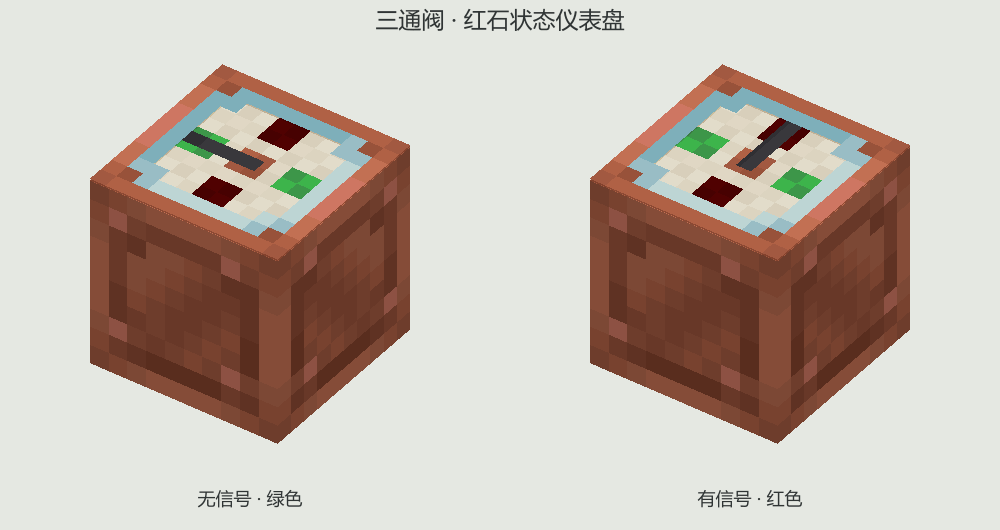
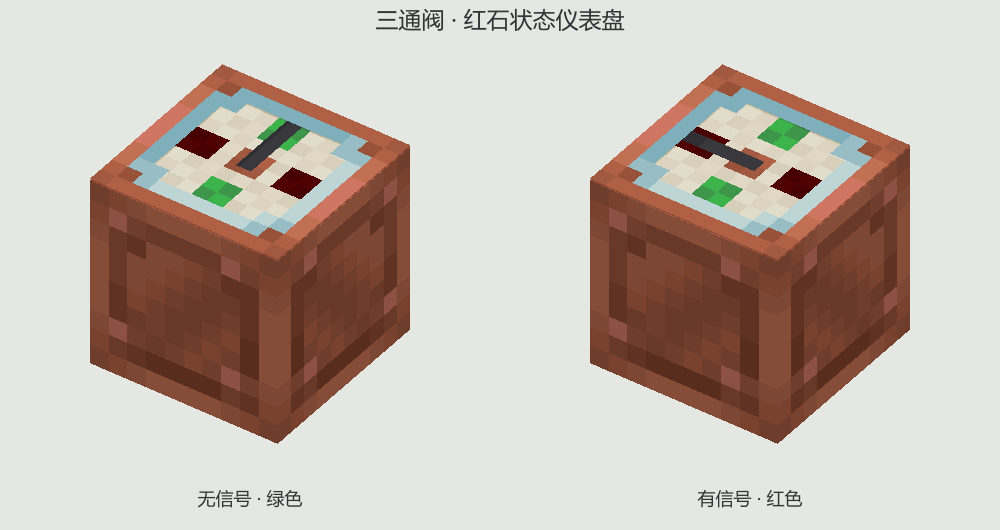
Rotate three-way valve dial scale and corresponding pointer positions

Changed region(s): [[0.186, 0.2113, 0.341, 0.3925], [0.682, 0.2113, 0.837, 0.3925], [0.682, 0.3321, 0.744, 0.3925]]

diff --git a/tools/create-three-way-dial.py b/tools/create-three-way-dial.py
@@ -6,12 +6,13 @@ def save(p,d):p.write_text(json.dumps(d,indent=2)+'\n',encoding='utf-8')
 def plate(name,lo,hi,uv,texture):
     return {'name':name,'from':lo,'to':hi,'faces':{'up':{'texture':texture,'uv':uv}}}
 for powered in (False,True):
-    needle=([7.6,13.07,4.5],[8.4,13.07,8.5]) if powered else ([4.5,13.07,7.6],[8.5,13.07,8.4])
+    needle=([4.5,13.07,7.6],[8.5,13.07,8.4]) if powered else ([7.6,13.07,4.5],[8.4,13.07,8.5])
     model={'parent':'minecraft:block/block','ambientocclusion':False,'render_type':'minecraft:cutout_mipped',
            'textures':{'dial':'create:block/valve_open','needle':'create:block/industrial_iron_block','glass':'create:block/fluid_valve'},
            'elements':[plate('dial',[3,13.02,3],[13,13.02,13],[2,2,14,14],'#dial'),
                        plate('pointer',*needle,[0,0,4,1],'#needle'),
                        plate('glass',[3,13.10,3],[13,13.10,13],[1,1,7,7],'#glass')]}
+    model['elements'][0]['faces']['up']['rotation']=90
     save(ROOT/f'models/block/three_way_valve/dial_{"powered" if powered else "unpowered"}.json',model)
 path=ROOT/'blockstates/three_way_valve.json';states=json.loads(path.read_text())
 states['multipart']=[p for p in states['multipart'] if '/dial_' not in p['apply']['model']]
